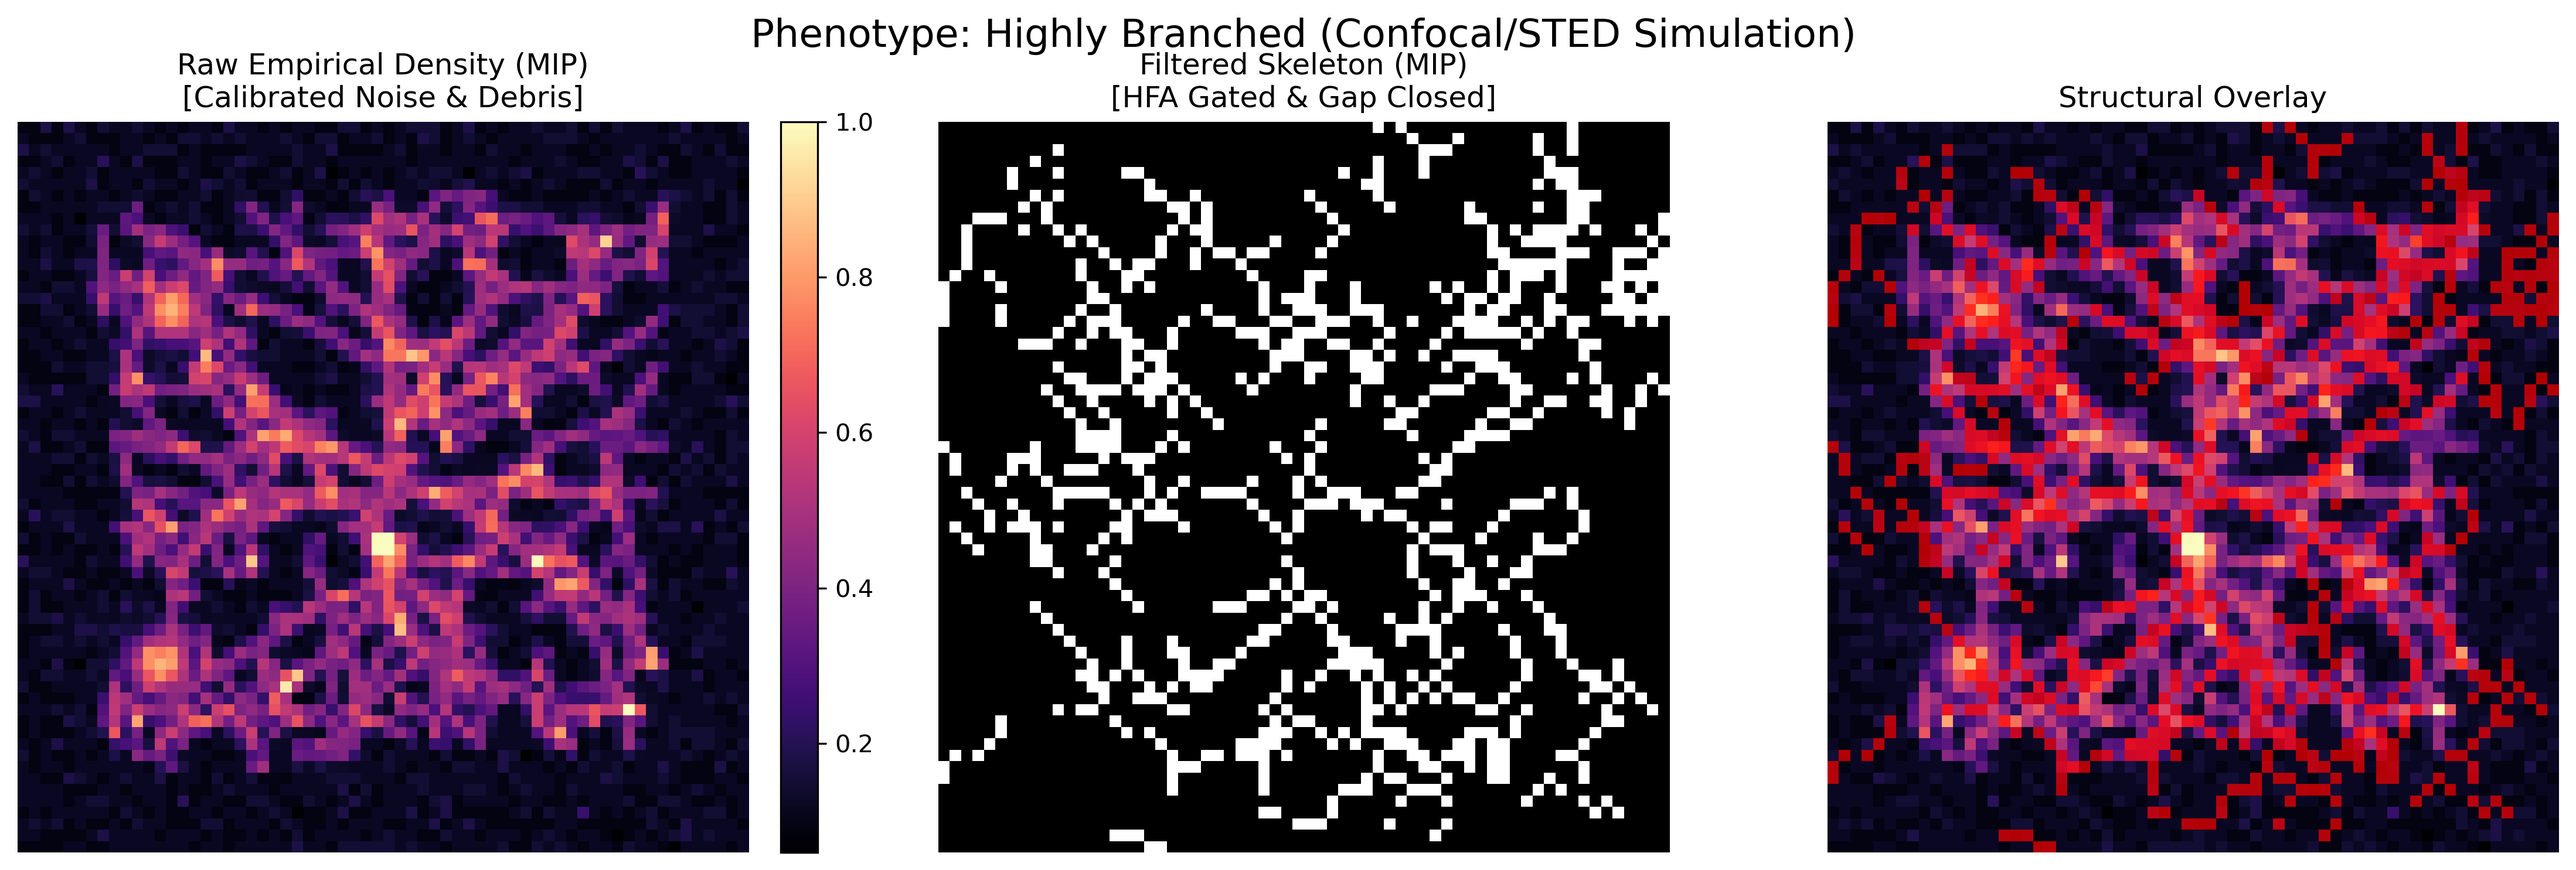
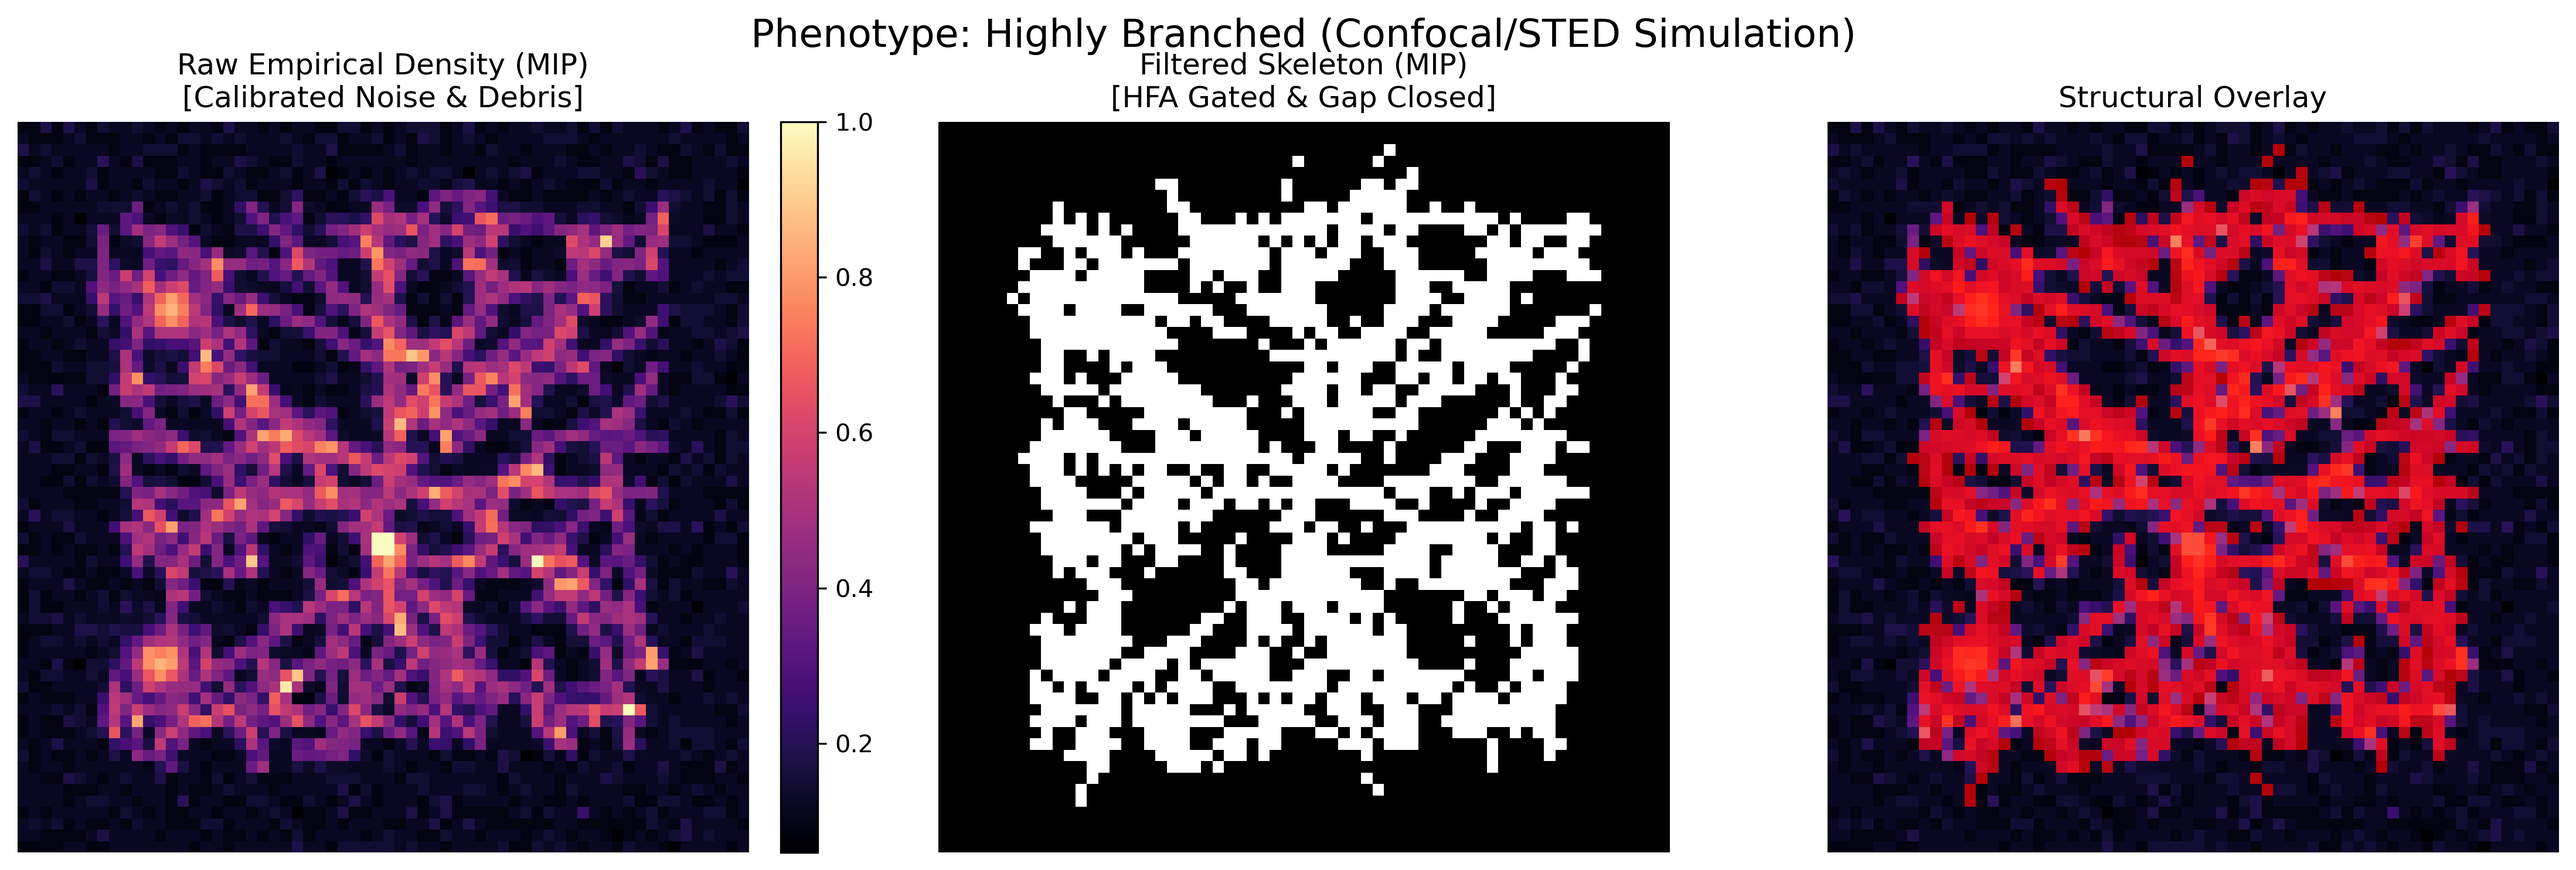
Further improve sensitivity
A bit too sensitive but not catastrophic

diff --git a/src/analysis.py b/src/analysis.py
@@ -2,7 +2,6 @@ import numpy as np
 import scipy.ndimage as ndi
 import warnings
 from skimage.morphology import skeletonize, remove_small_objects
-from skimage.filters import threshold_li, apply_hysteresis_threshold
 from skimage.measure import block_reduce
 from dataclasses import dataclass
 from typing import Dict, Tuple
@@ -32,13 +31,8 @@ class TopologyAnalyzer:
     def __init__(self, ridge_sharpening_sigma: float = 1.0):
         self.ridge_sigma = ridge_sharpening_sigma
 
-    def extract_vesselness_topology(self, vesselness_map: np.ndarray, nms_ridges: np.ndarray, 
-                                    low_v: float, high_v: float) -> np.ndarray:
-        """Extracts structures using dynamic geometric seeds restricted to 1-voxel ridges."""
-        ridge_vesselness = vesselness_map * (nms_ridges > 1e-4)
-        return apply_hysteresis_threshold(ridge_vesselness, low_v, high_v)
-
     def build_network_coherence_gated(self, skeleton: np.ndarray, spacing: Tuple[float, float, float], fiber_evecs: np.ndarray) -> nx.Graph:
+        """Graph construction with Tensor Coherence. Destroys orthogonal lattice fusions in dense bundles."""
         G = nx.Graph()
         coords = np.argwhere(skeleton)
         if len(coords) == 0: return G
@@ -59,7 +53,8 @@ class TopologyAnalyzer:
             
             v1, v2 = G.nodes[i]['vec'], G.nodes[j]['vec']
             
-            if abs(np.dot(edge_vec, v1)) > 0.45 and abs(np.dot(edge_vec, v2)) > 0.45:
+            # Relaxed to 0.3 (~72 degrees) to allow sharp biological curves, but reject 90-degree bundle fusions
+            if abs(np.dot(edge_vec, v1)) > 0.30 and abs(np.dot(edge_vec, v2)) > 0.30:
                 G.add_edge(i, j)
         return G
 
@@ -153,15 +148,14 @@ class HessianAnalyzer:
             idx1, idx2, idx3 = sort_idx[:, 0], sort_idx[:, 1], sort_idx[:, 2]
             l1, l2, l3 = evals[row_idx, idx1], evals[row_idx, idx2], evals[row_idx, idx3]
             
-            valid_structure = (l2 < -1e-5) & (l3 < -1e-5)
+            # Geometric tolerance relaxed to 0.01 to prevent topological breakage directly at bifurcations
+            valid_structure = (l2 < 1e-2) & (l3 < 1e-2)
             
             rb = np.abs(l1) / (np.sqrt(np.abs(l2 * l3)) + 1e-10)
-            S = np.sqrt(l1**2 + l2**2 + l3**2)
-            c = 0.5 * np.max(S) if np.max(S) > 0 else 1.0
             
+            # Absolute Shape Probability: Removes global intensity penalty (S-term) to save fiber tails
             vesselness = np.zeros_like(hfa_vals)
-            v_vals = hfa_vals[valid_structure] * np.exp(-(rb[valid_structure]**2) / (2 * BETA**2)) * \
-                     (1.0 - np.exp(-(S[valid_structure]**2) / (2 * c**2)))
+            v_vals = hfa_vals[valid_structure] * np.exp(-(rb[valid_structure]**2) / (2 * BETA**2))
             vesselness[valid_structure] = v_vals
             
             current_v = np.zeros_like(volume)
@@ -264,19 +258,20 @@ class DensityVolumeAnalyzer:
         self.tensor_macro = StructureTensorAnalyzer(inner_sigma=expected_fiber_radius)
         self.topology_analyzer = TopologyAnalyzer(ridge_sharpening_sigma=expected_fiber_radius)
 
-    def _apply_directional_nms(self, sharpened: np.ndarray, evecs: np.ndarray, mask: np.ndarray) -> np.ndarray:
-        out = np.zeros_like(sharpened)
+    def _apply_directional_nms(self, field: np.ndarray, evecs: np.ndarray, mask: np.ndarray) -> np.ndarray:
+        out = np.zeros_like(field)
         coords = np.argwhere(mask)
         if len(coords) == 0: return out
         
         z, y, x = coords.T
         dz, dy, dx = evecs[z, y, x, 0], evecs[z, y, x, 1], evecs[z, y, x, 2]
         
-        val_center = sharpened[z, y, x]
-        val_p = ndi.map_coordinates(sharpened, [z+dz, y+dy, x+dx], order=1, mode='constant', cval=0.0)
-        val_m = ndi.map_coordinates(sharpened, [z-dz, y-dy, x-dx], order=1, mode='constant', cval=0.0)
+        val_center = field[z, y, x]
+        # Tri-linear sub-voxel sampling
+        val_p = ndi.map_coordinates(field, [z+dz, y+dy, x+dx], order=1, mode='constant', cval=0.0)
+        val_m = ndi.map_coordinates(field, [z-dz, y-dy, x-dx], order=1, mode='constant', cval=0.0)
         
-        is_max = (val_center >= val_p) & (val_center >= val_m)
+        is_max = (val_center > val_p) & (val_center >= val_m)
         out[z[is_max], y[is_max], x[is_max]] = val_center[is_max]
         return out
 
@@ -315,26 +310,22 @@ class DensityVolumeAnalyzer:
         crop_vol = volume[bbox]
         denoised = ndi.gaussian_filter(crop_vol, sigma=0.5)
         
-        laplacian = np.zeros_like(denoised)
-        s_scaled = [self.topology_analyzer.ridge_sigma / sp for sp in voxel_spacing]
-        for i in range(denoised.ndim):
-            laplacian += ndi.gaussian_filter1d(denoised, s_scaled[i], axis=i, order=2)
-            
-        sharpened = np.clip(denoised - laplacian, 0, None)
-        base_mask = sharpened > 1e-5
+        # 1. Rigorous MAD Noise Floor Formulation
+        bg_median = np.median(denoised)
+        mad = np.median(np.abs(denoised - bg_median))
+        signal_floor = max(bg_median + 3 * mad, 1e-4)
+        base_mask = denoised > signal_floor
+        
         if not np.any(base_mask): return self._empty_result(volume)
             
+        # 2. Geometric Shape Extraction
         v_map, cross_ev, fiber_ev = self.hessian_analyzer.compute_multiscale(denoised, base_mask, voxel_spacing)
-        nms_vol = self._apply_directional_nms(sharpened, cross_ev, base_mask)
         
-        valid_v = v_map[v_map > 1e-3]
-        if len(valid_v) > 0:
-            high_v = threshold_li(valid_v)
-            low_v = high_v * 0.2
-        else:
-            low_v, high_v = 0.05, 0.25
-
-        mask_crop = self.topology_analyzer.extract_vesselness_topology(v_map, nms_vol, low_v=low_v, high_v=high_v)
+        # 3. VESSELNESS-NMS: Thinning the geometric probability directly guarantees intensity invariance.
+        nms_v = self._apply_directional_nms(v_map, cross_ev, base_mask)
+        
+        # 4. Universal shape gate. 0.05 maintains connectivity deep into the noise floor.
+        mask_crop = nms_v > 0.05
         mask_crop = self._directional_gap_bridging(mask_crop, fiber_ev)
         
         min_vol = max(32, int((self.expected_fiber_radius ** 3) * 100))
@@ -346,6 +337,8 @@ class DensityVolumeAnalyzer:
                 mask_crop = remove_small_objects(mask_crop.astype(bool), min_size=min_vol)
         
         skeleton_raw = skeletonize(mask_crop)
+        
+        # 5. Top-Down Filtering
         graph = self.topology_analyzer.build_network_coherence_gated(skeleton_raw, voxel_spacing, fiber_ev)
         graph = self.topology_analyzer.filter_by_path_persistence(graph, self.expected_fiber_radius * 10.0)
         graph = self.topology_analyzer.prune_skeleton_graph(graph, self.expected_fiber_radius * 3.0)

diff --git a/showcase_output/empirical_results_table.tex b/showcase_output/empirical_results_table.tex
@@ -6,9 +6,9 @@
 \hline
 \textbf{Phenotype} & \textbf{Vol \%} & \textbf{HFA} & \textbf{Macro FA} & \textbf{Valency} & \textbf{Bifurc \%} & \textbf{Cross \%} \\
 \hline
-Highly Branched & 7.554 & 0.084 & 0.410 & 2.458 & 25.59 & 13.80 \\
-Directional & 21.731 & 0.031 & 0.403 & 2.431 & 26.37 & 12.29 \\
-Random Tangle & 2.445 & 0.268 & 0.483 & 2.462 & 28.67 & 12.94 \\
+Highly Branched & 7.627 & 0.644 & 0.409 & 3.268 & 24.80 & 33.97 \\
+Directional & 3.513 & 0.654 & 0.470 & 3.010 & 24.41 & 27.67 \\
+Random Tangle & 5.997 & 0.692 & 0.483 & 3.355 & 24.59 & 36.89 \\
 \hline
 \end{tabular}
 \vspace{1ex}
